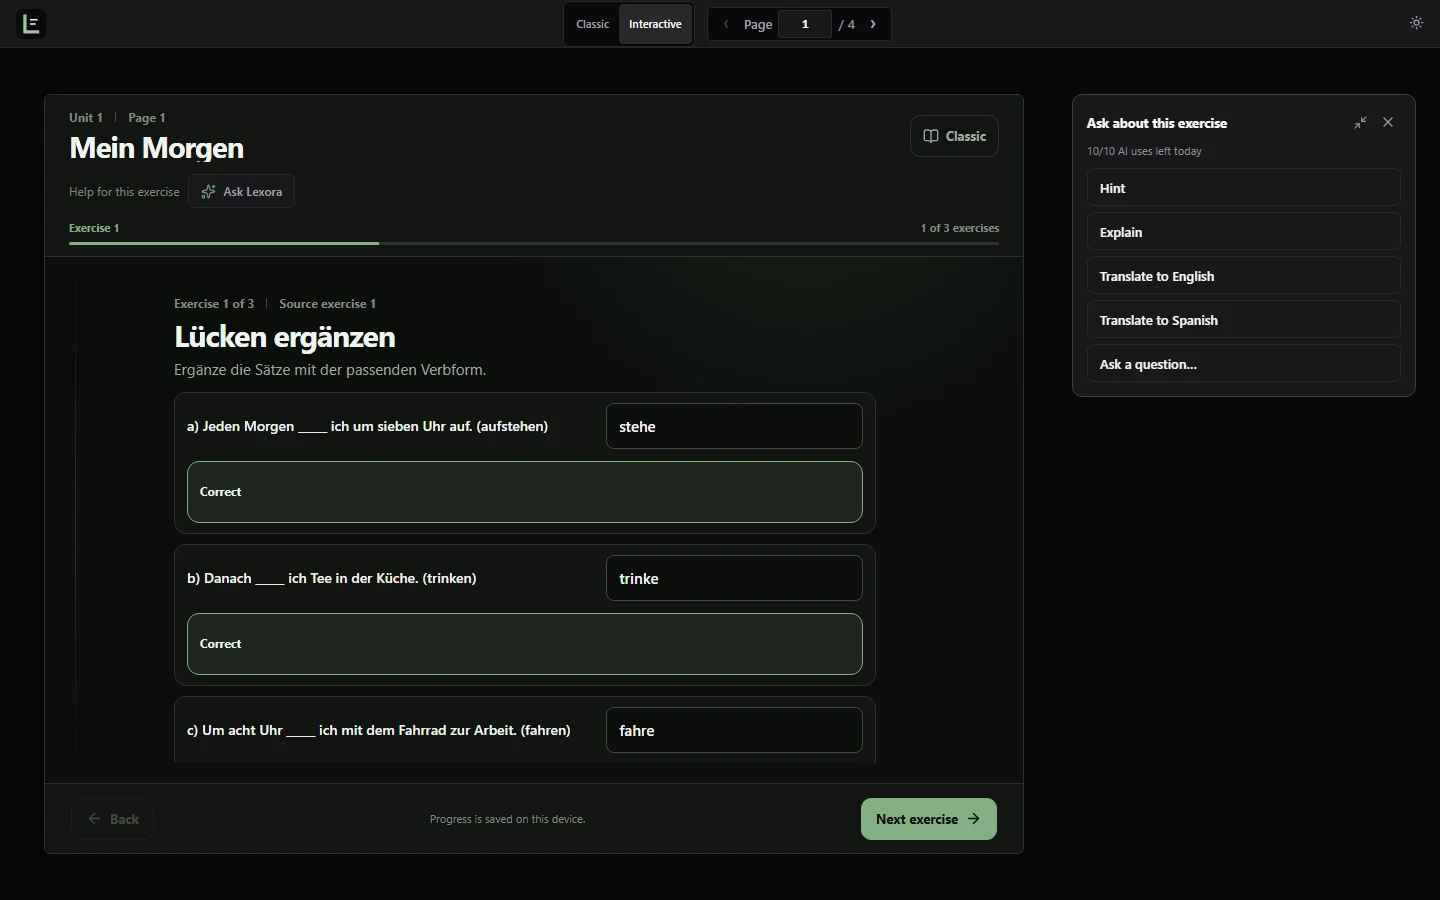
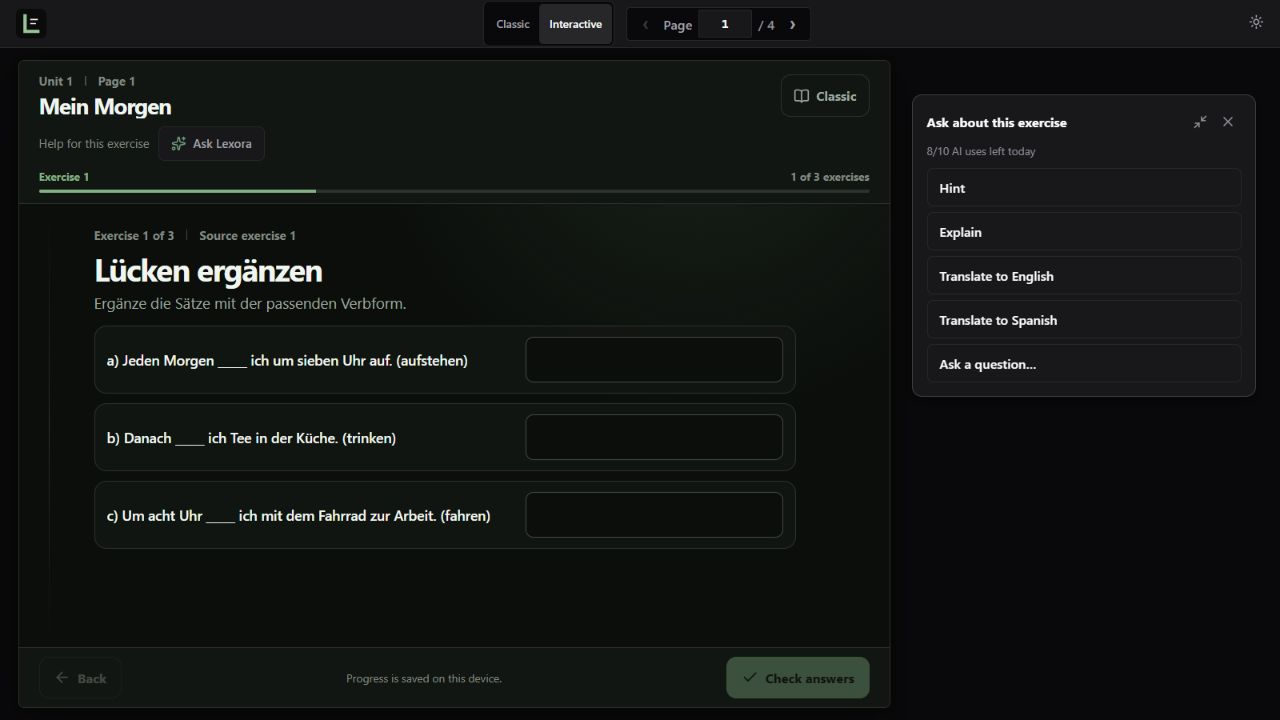
docs(readme): refresh current product behavior

diff --git a/README.md b/README.md
@@ -2,36 +2,54 @@
 
 Lexora turns scanned language workbooks into focused, interactive practice while keeping the original page available at any time. Learners can work with native exercises in Interactive Mode or switch to Classic Mode for a source-faithful workbook view.
 
-The repository includes a precomputed public demo using an original four-page synthetic workbook. Run it locally at `http://127.0.0.1:8088/demo`; opening the demo requires no provider credential and triggers no AI inference.
+The repository includes a precomputed public demo using an original four-page synthetic workbook. Run it locally at `http://127.0.0.1:8088/demo`; opening the demo does not start document processing or analysis inference. When contextual assistance is enabled and configured, an explicit learner action can use the bounded AI-help path.
 
-| Interactive lesson | Classic page fidelity |
+| Interactive Mode | Classic Mode |
 |---|---|
 | ![Interactive Mode showing a focused exercise workspace](frontend/public/release/lexora-interactive.webp) | ![Classic Mode showing the original synthetic workbook page](frontend/public/release/lexora-classic.webp) |
+| Ask Lexora with Hint, Explain, Translate, and question actions | AI-assisted feedback for a true open response, explicitly labeled non-authoritative |
+| ![Ask Lexora actions beside an Interactive exercise](frontend/public/release/lexora-ask.webp) | ![AI-assisted feedback for an open response](frontend/public/release/lexora-open-response.webp) |
 
-## Classic and Interactive
+## Classic Mode and Interactive Mode
 
 | Mode | Best for | How it works |
 |---|---|---|
-| **Interactive** | Focused practice | Converts supported source exercises into responsive native controls, with deterministic correction when a reliable answer is available. |
-| **Classic** | Source fidelity | Preserves the original PDF with geometry-aligned interactive overlays. |
+| **Interactive** | Focused practice | Projects supported source exercises into responsive native controls. Correction is deterministic and source-backed when a canonical answer exists. |
+| **Classic** | Source fidelity | Preserves the original PDF with geometry-aligned interactive overlays and the same answer state. |
 
-Interactive Mode supports context, fill blank, choice, choice grid, sentence ordering, matching, and free text. Both modes use the same browser-local answers, so learners can switch views without losing progress.
+Interactive Mode supports context, fill blank, choice, choice grid, sentence ordering, matching, and true open responses. Both modes use the same browser-local answers, so learners can switch views without losing progress. Switching modes changes the projection, not the underlying validated page analysis or correction authority.
+
+When a canonical answer mapping is reliable, Lexora is the authority for correct/incorrect feedback. Unmapped, ambiguous, and true open responses remain explicitly ungraded rather than guessed.
+
+## Ask Lexora
+
+Ask Lexora is an explicit, secondary help path—not an automatic chatbot or grading replacement.
+
+- **Hint** gives bounded help for the current exercise or selected Classic content.
+- **Explain** provides a contextual explanation.
+- **Translate** translates reliable source context to English or Spanish.
+- **Ask a question** sends a bounded learner question with the current exercise or selection as context.
+- **Get AI feedback** is available after a true open response is marked done. It offers AI-assisted review, clearly labeled **not source-backed**, and never creates an automatic grade.
+
+In Interactive Mode, Ask Lexora uses the current exercise. In Classic Mode, the learner must make an explicit rectangular page selection. The backend reconstructs canonical context, refuses unreliable source context, keeps provider credentials server-side, and applies human verification, session limits, a global provider limit, caching, and a kill switch.
 
 ## How it works
 
-1. A workbook page is rasterized for multimodal analysis.
+1. A private/local workflow rasterizes a workbook page for multimodal analysis.
 2. The result is validated as a typed page structure with source geometry and interaction identity.
 3. Supported structures become native exercises in Interactive Mode.
 4. The original page remains available in Classic Mode.
+5. The public demo serves committed, validated results; explicit Ask Lexora actions use a separate bounded assist request.
 
-The public demo serves frozen, validated results. New document analysis is available only through the private local workflow.
+New document analysis is available only through the private local workflow. The public reader performs projection, answer persistence, source-backed correction, and optional explicit assistance at runtime.
 
 ## Engineering highlights
 
 - **Source fidelity:** Interactive exercises retain their connection to the original page, wording, and geometry.
 - **Fail-closed correction:** Only reliable source-backed mappings produce correct or incorrect feedback. Missing or ambiguous answers remain explicitly ungraded.
-- **Precomputed public demo:** Visitors use precomputed multimodal analysis and cannot trigger document processing. Opening or using the core demo triggers no AI inference.
-- **Optional contextual AI help:** **Ask Lexora** stays next to the current exercise in Interactive Mode; Classic uses an explicit rectangular page selection. A bounded question, explanation, or translation can be requested, while answer review remains a non-authoritative fallback. It is disabled by default and is never run automatically.
+- **Precomputed public demo:** Visitors use precomputed multimodal analysis and cannot trigger document processing or analysis inference. The public demo may still expose explicit, provider-backed assistance when it is enabled and configured.
+- **Optional contextual AI help:** **Ask Lexora** stays next to the current exercise in Interactive Mode; Classic uses an explicit rectangular page selection. Hint, Explain, Translate, Ask a question, and open-response AI feedback are bounded, explicit actions. AI review is non-authoritative and never replaces deterministic source-backed correction.
+- **Bounded public assistance:** Turnstile verification, a per-session daily quota, a global daily provider quota, response caching, and a kill switch protect the provider path. The default Compose limits are 10 AI uses per verified session per day and 100 provider calls globally per day.
 - **Tested interaction model:** Automated coverage spans all six exercise families, responsive layouts, keyboard operation, accessibility, correction, and the public read-only boundary.
 
 ## Architecture
@@ -43,6 +61,9 @@ flowchart LR
     Projection --> Interactive[Interactive renderer]
     Interactive --> Correction[Source-backed correction<br/>fail closed]
     Page --> Classic[Classic PDF reader<br/>source-faithful overlays]
+    Interactive -. explicit Ask Lexora .-> Assist[Bounded AI assistance]
+    Classic -. rectangular selection .-> Assist
+    Assist --> Provider[Configured text provider]
 ```
 
 Lexora separates document analysis from the public reading experience. The public runtime contains the web app, API, database, and an internal, non-exposed AI service that is only contacted when a learner explicitly triggers optional AI help. The private local workflow adds multimodal document analysis.
@@ -51,14 +72,14 @@ Lexora separates document analysis from the public reading experience. The publi
 |---|---|---|
 | Web | React, TypeScript, Vite, PDF.js | Public site, Interactive lessons, browser-local progress, and the lazy-loaded Classic reader |
 | API | Java, Spring Boot, PostgreSQL, PDFBox | Books, page orchestration, correction authority, public-demo enforcement, and the bounded AI-help endpoint |
-| AI help | Python, FastAPI | Optional, user-triggered Hint / Explain / Translate / Check with AI; internal-only, provider-agnostic |
+| AI help | Python, FastAPI | Optional, user-triggered Hint / Explain / Translate / Ask a question / open-response feedback; internal-only, provider-agnostic |
 | Analysis | Python, FastAPI, multimodal AI | Private document analysis and strict structure validation; absent from the public runtime |
 
 See [the architecture reference](docs/architecture.md) for both runtime topologies and [the public release runbook](docs/public-release.md) for operational verification.
 
 ## Run the public demo
 
-Prerequisite: Docker Desktop with Compose. No AI service or provider credential is required.
+Prerequisite: Docker Desktop with Compose. The precomputed lesson does not require a provider credential. The production stack includes an internal AI-help service, but `LEXORA_ASSIST_ENABLED` defaults to `false`; configure a server-side provider and real Turnstile credentials before enabling Ask Lexora in a deployment.
 
 ```powershell
 $env:POSTGRES_PASSWORD = '<strong-random-secret>'
@@ -115,10 +136,11 @@ Browser suites cover dark and light themes, reduced motion, keyboard-only intera
 The public demo is intentionally narrow:
 
 - It serves one original synthetic workbook with precomputed multimodal analysis.
-- Its production stack contains `frontend`, `backend`, `postgres`, and an internal-only AI service with no published port; no provider credential is required to run it.
+- Its production stack contains `frontend`, `backend`, `postgres`, and an internal-only AI service with no published port. No provider credential is required to run the precomputed lesson; provider credentials are required server-side only when optional assistance is enabled.
 - Upload, processing, reanalysis, mutation, and access to arbitrary books are blocked.
-- Opening or using the demo cannot trigger document processing or provider spend.
-- Optional AI help is the only provider-bound path, runs only after an explicit learner action, and is bounded by Turnstile verification, per-session and global daily caps, and a kill switch.
+- Opening or using the core demo cannot trigger document processing or analysis inference. An explicit Ask Lexora or open-response feedback action is the provider-bound path and may incur provider spend when enabled.
+- Optional AI help runs only after an explicit learner action and is bounded by Turnstile verification, a per-session daily cap, a global daily provider cap, response caching, and a kill switch. The public UI reports the remaining session quota.
+- Release verification checks `GET /api/public-demo` for the `precomputed-real-read-only` mode, `analysisTriggering: false`, and the committed provider/model metadata; upload, process, and update paths are not exposed by the demo.
 - Private documents, derived captures, provider payloads, credentials, and local storage are excluded from public assets.
 
 The private workflow remains available for authorized local PDFs, but it is not part of the public runtime. See the [release runbook](docs/public-release.md) for the complete boundary.
@@ -126,7 +148,7 @@ The private workflow remains available for authorized local PDFs, but it is not 
 ## Current limitations
 
 - Unsupported or ambiguous layouts remain tied to the source rather than being guessed.
-- Free-text responses are saved locally but are not automatically graded without a reliable source answer; they can be reviewed by the optional AI help as a non-source-backed fallback.
+- True open responses are saved locally but are not automatically graded because they have no canonical answer mapping; after the learner selects **Done**, optional AI assistance can provide non-source-backed feedback.
 - Authentication, accounts, cloud progress sync, and book-wide chat are not implemented.
 - Public hosting, domain configuration, TLS, and operational backups remain deployment responsibilities.
 - No license has been selected; until one is added, all rights are reserved.

diff --git a/docs/free-text-interactions.md b/docs/free-text-interactions.md
@@ -5,9 +5,11 @@
 Detect and answer **FreeText** exercises: a printed prompt followed by one or
 more visibly reserved writing lines where the learner writes their own
 response. PoC 6 covers deterministic detection, an on-page writing overlay,
-and local answer persistence. It does NOT know the correct answer, does NOT
-extract answer keys, does NOT grade, and does NOT use an LLM or vision model
-(Answer Key + Correction is a later PoC).
+and local answer persistence. The detector does NOT know the correct answer,
+extract answer keys, or call an LLM or vision model; runtime feedback is a
+separate concern. True open responses remain ungraded by deterministic
+correction, while the current reader may offer explicit, non-source-backed
+Ask Lexora feedback after the learner marks a response done.
 
 PoC 6 is **COMPLETE** following manual acceptance on representative workbook
 pages and coexistence checks with earlier interaction types.
@@ -155,7 +157,9 @@ Same store as PoC 1–5 (`lexora.exerciseAnswers.v1`), new kind `free-text`.
 - The overlay uses the shared normalized geometry (`rotateBBox` +
   `freeTextInputStyle`), so it follows zoom (75%–200%) and rotation
   (0/90/180/270) like every other interaction overlay.
-- No correctness coloring, no "Check answer", no AI feedback.
+- No deterministic correctness coloring or "Check answer" for true open
+  responses. After the learner selects **Done**, optional Ask Lexora can offer
+  AI-assisted feedback labeled as not source-backed.
 
 ## Debug visualization
 
@@ -202,9 +206,12 @@ their own interactions still work; zero console errors.
 - Text rows printed exactly centered between two writing lines (inside
   neither isolation band) could slip through; conservative rules apply.
 - The candidate score is heuristic and not calibrated across book designs.
-- Answer correctness is unknown until the Answer Key + Correction PoC; every
-  learner response is neutral.
-- PoC 6 does not understand prompts, grammar, or correctness.
+- Deterministic answer correctness remains unknown for true open responses;
+  canonical source-backed correction applies only where a reliable mapping
+  exists.
+- PoC 6's detector does not understand prompts, grammar, or correctness; the
+  separate assist path may use the persisted prompt and learner response for
+  explicitly requested, non-authoritative feedback.
 - Detection has no LLM or vision-model dependency.
 
 ## Future (documented, NOT implemented)
@@ -216,5 +223,5 @@ their own interactions still work; zero console errors.
 - PoC 6.5: broad UX/UI overhaul of the reader, including explicit convenient
   previous/next or incremental page-navigation controls rather than restoring
   browser-native number-input spinners.
-- Answer Key extraction and automatic correction.
+- Broader answer-key extraction and deterministic correction for open responses.
 - Writing-line detection without printed lines (blank-page writing areas).

diff --git a/docs/roadmap.md b/docs/roadmap.md
@@ -19,9 +19,11 @@ source-derived acceptance data.
 ## Public portfolio release
 
 - Validated multimodal analysis in the local/private runtime; the public
-  production topology contains no AI service, credential, OCR, or model download.
+  production topology contains an internal-only AI-help service with no
+  published port. Document analysis, OCR, and model downloads remain private.
 - Read-only synthetic demo initialized server-side with precomputed analysis.
-- No anonymous upload, processing, extraction, or provider-spend path.
+- No anonymous upload, processing, or extraction path; explicit optional AI
+  assistance is provider-bound and protected by verification and quotas.
 - Public landing, current product screenshots, social preview,
   recruiter-oriented README, and production runbook.
 - Security headers, proxy limits, loopback-only public binding, health checks,
@@ -66,7 +68,9 @@ source-derived acceptance data.
 - Supports isolated writing lines and aligned multi-line response areas.
 - Single unprompted rules, form-like fields, and dense boxed regions are
   intentionally rejected to avoid false positives.
-- Learner text is local; the current interaction does not infer correctness.
+- Learner text is local and true open responses remain ungraded by deterministic
+  correction; after completion, optional Ask Lexora can provide AI-assisted,
+  non-source-backed feedback.
 
 ## Verification policy
 

diff --git a/docs/architecture.md b/docs/architecture.md
@@ -12,7 +12,7 @@ flowchart LR
     Backend -. optional explicit AI help .-> Assist[internal ai-service]
 ```
 
-Public Compose runs `frontend`, `backend`, `postgres`, and an internal `ai-service` with no published host port. The backend initializes one fixed demo book from committed resources. No provider credential, upload action, OCR, or document-processing inference is present in this topology. The internal `ai-service` is contacted only for optional, user-triggered AI help and is not proxied by Nginx.
+Public Compose runs `frontend`, `backend`, `postgres`, and an internal `ai-service` with no published host port. The backend initializes one fixed demo book from committed resources. No provider credential is baked into the topology, and no upload action, OCR, or document-processing inference is available there. The internal `ai-service` is contacted only for optional, user-triggered AI help and is not proxied by Nginx.
 
 The local/private topology adds the analysis boundary:
 
